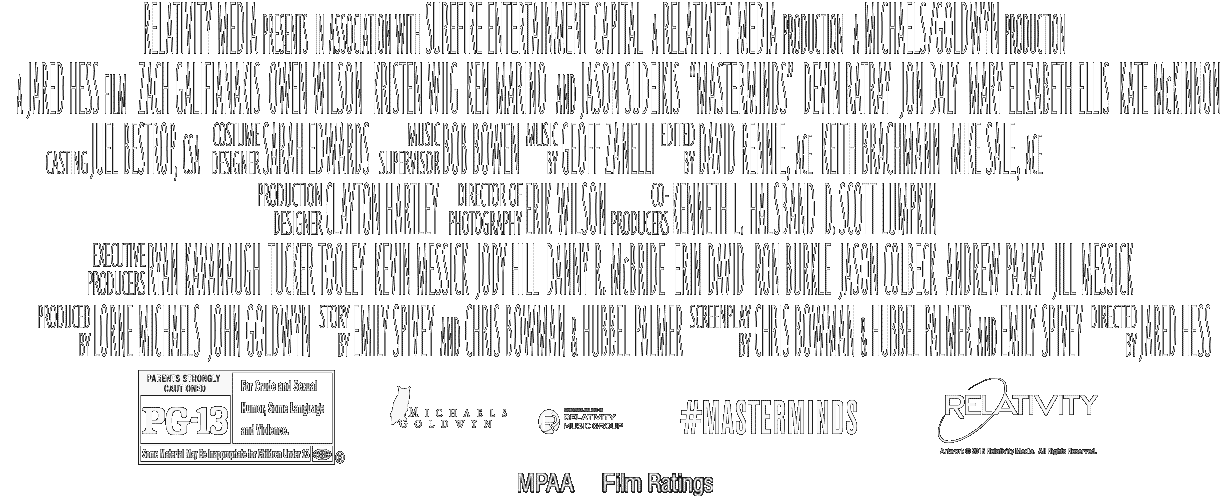
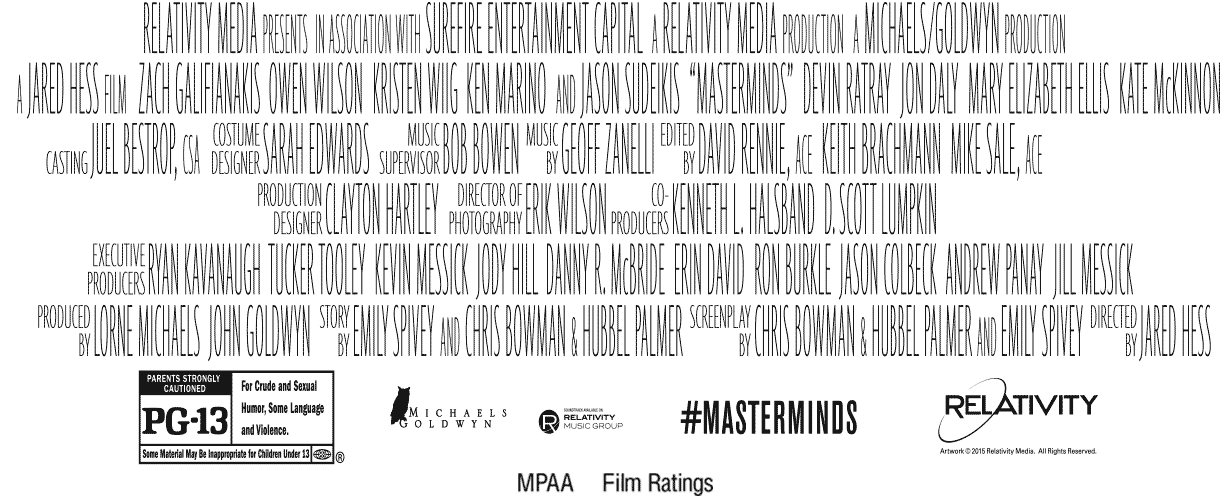
new footer art. added CSS hover to controls.

diff --git a/t_mm.html b/t_mm.html
@@ -102,7 +102,7 @@
     <link rel="stylesheet" href="//maxcdn.bootstrapcdn.com/font-awesome/4.3.0/css/font-awesome.min.css">
 <style>
     body {
-      background-color: #000;
+      background-color: #fff;
       /*font-family: {select:Body Font}, Arial, sans-serif;}*/
       font-family: 'Droid Sans', Arial, sans-serif; }
     h1, h2, h3, h4, .post-qoute blockquote, .search-results, .menu, .menu .nav-search form input, .menu-icon .title {font-family: {select:Header Font}, Arial, sans-serif;}
@@ -574,7 +574,7 @@
      display: none;
     }
     #footer{
-     background: #000 url(http://static.tumblr.com/b2vkqlh/FSmnq7hfq/footer_money.jpg) no-repeat;
+     background: #fff url(http://static.tumblr.com/b2vkqlh/PQwnqqkhm/footer_money.jpg) no-repeat;
      background-size: 100%;
      background-position: center bottom;
      height: 400px;
@@ -588,8 +588,7 @@
      /*z-index: 400;*/
     }
     #footer .copy{
-     /*background: url(http://static.tumblr.com/b2vkqlh/wPonq7igc/footer-block_copy.png) no-repeat;*/
-     background: url(http://static.tumblr.com/b2vkqlh/lBlnqket4/footer-block_copy.png) no-repeat;
+     background: url(http://static.tumblr.com/b2vkqlh/K2bnqqkji/footer-block_copy.png) no-repeat;
      background-size: 100%;
      height: 80%;
      width: 50%;
@@ -650,6 +649,19 @@
     .myhover.kristen{background-color:#bb76e1;background-color: rgba(188,118,225,.5)}
     .myhover.zach{background-color:#f5cb06;background-color: rgba(245,201,6,.5)}
 
+    a.closeback,
+    .bottom-nav a,
+    .pagination a{
+        box-shadow: 0 0 15px rgba(0,0,0,.35);
+        background-color: rgba(0,0,0,.35) !important;
+        border-radius: 50%;
+        margin: 10px !important;
+    }
+    a:hover.closeback,
+    .bottom-nav a:hover,
+    .pagination a:hover{
+        background-color: rgba(0,0,0,.15) !important;
+    }
     .bottom-nav a{
         margin: 2.5%;
         display: inline-block;
@@ -795,7 +807,7 @@
         height: 230px;
     }
     #footer .copy{
-        background: url(http://static.tumblr.com/b2vkqlh/OADnqkhyh/footer-block_copy_mobile.png) no-repeat;
+        background: url(http://static.tumblr.com/b2vkqlh/Du1nqqkl4/footer-block_copy_mobile.png) no-repeat;
         background-size: 100%;
         height: 100%;
         width: 100%;
@@ -881,7 +893,8 @@
 <body>
   <div id="container" class="container">
     <div id="billboard">
-        <video preload="auto" autoplay poster="http://static.tumblr.com/b2vkqlh/PtLnqik3a/header_masteminds.jpg" width="100%">
+        <!-- <video preload="auto" autoplay poster="http://static.tumblr.com/b2vkqlh/PtLnqik3a/header_masteminds.jpg" width="100%"> -->
+        <video preload="auto" autoplay width="100%">
             <source src="http://omnio.us/test/mm/MM_Clean_2500x1110.webm" type="video/webm">
             <source src="http://omnio.us/test/mm/MM_Clean_2500x1110.ogv" type="video/ogg">
             <source src="http://omnio.us/test/mm/MM_Clean_2500x1110.mp4" type="video/quicktime">
@@ -974,6 +987,10 @@
                     {/block:Text}
                     {block:Photo}
                     <article class="grid-item post-photo" id="{PostID}">
+                        {block:PermalinkPage}{LinkOpenTag}
+                            <!-- <a id="top" class="closeback" href="/" target="_self"></a> -->
+                            <a id="top" class="closeback" href="http://{Host}#content-wrapper" target="_self"></a>
+                        {LinkCloseTag}{/block:PermalinkPage}
                         <div class="post-content">
                         {block:IndexPage}
                             <a href="{Permalink}#top">
@@ -986,8 +1003,6 @@
                             </a>
                         {/block:IndexPage}
                         {block:PermalinkPage}{LinkOpenTag}
-                            <!-- <a id="top" class="closeback" href="/" target="_self"></a> -->
-                            <a id="top" class="closeback" href="http://{Host}#content-wrapper" target="_self"></a>
                             <img src="{PhotoURL-HighRes}" alt="{PhotoAlt}">
                             <div class="post-content--padded">
                                     {block:Caption}<p>{Caption}</p>{/block:Caption}
@@ -995,6 +1010,10 @@
                     {/block:Photo}
                     {block:Video}
                     <article class="grid-item post-video" id="{PostID}">
+                        {block:PermalinkPage}{LinkOpenTag}
+                            <!-- <a id="top" class="closeback" href="/" target="_self"></a> -->
+                            <a id="top" class="closeback" href="http://{Host}#content-wrapper" target="_self"></a>
+                        {LinkCloseTag}{/block:PermalinkPage}
                         <div class="post-content">
                         {block:IndexPage}
                             <a href="{Permalink}#top">
@@ -1007,7 +1026,6 @@
                             </a>
                         {/block:IndexPage}
                         {block:PermalinkPage}{LinkOpenTag}
-                            <a id="top" class="closeback" href="/" target="_self"></a>
                                 <div id="top" class="video-player">{Video-500}</div>
                                 <div class="post-content--padded">
                                     {block:Caption}<p>{Caption}</p>{/block:Caption}
@@ -1414,6 +1432,10 @@
   <style type="text/css">
     .fancybox-custom .fancybox-skin {
       box-shadow: 0 0 50px #222;
+    }
+    .fancybox-inner{
+        height: 576px !important;
+        overflow: hidden !important;
     }
   </style>
 
